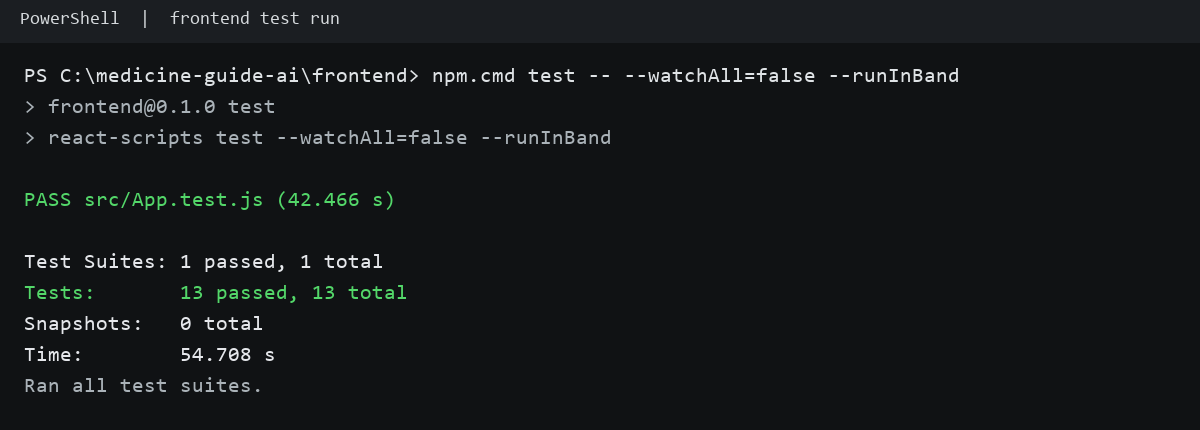
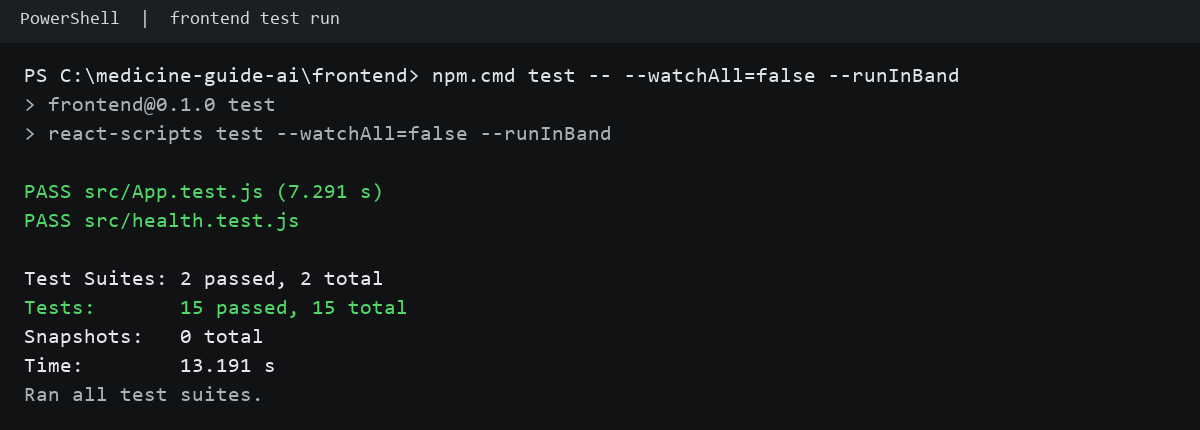
Add deployment health check and tests

diff --git a/frontend/src/health.test.js b/frontend/src/health.test.js
@@ -1,0 +1,40 @@
+import health from '../api/health';
+
+const createResponse = () => ({
+  statusCode: null,
+  headers: {},
+  body: null,
+  setHeader(name, value) {
+    this.headers[name] = value;
+  },
+  status(code) {
+    this.statusCode = code;
+    return this;
+  },
+  json(body) {
+    this.body = body;
+    return this;
+  }
+});
+
+test('GET 헬스체크는 상태와 시각을 반환한다', () => {
+  const res = createResponse();
+
+  health({ method: 'GET' }, res);
+
+  expect(res.statusCode).toBe(200);
+  expect(res.headers['Cache-Control']).toBe('no-store');
+  expect(res.body.status).toBe('ok');
+  expect(res.body.service).toBe('medicine-guide-ai');
+  expect(new Date(res.body.timestamp).toISOString()).toBe(res.body.timestamp);
+});
+
+test('GET 이외의 요청은 405와 허용 메서드를 반환한다', () => {
+  const res = createResponse();
+
+  health({ method: 'POST' }, res);
+
+  expect(res.statusCode).toBe(405);
+  expect(res.headers.Allow).toBe('GET');
+  expect(res.body.status).toBe('error');
+});

diff --git a/frontend/api/health.js b/frontend/api/health.js
@@ -1,0 +1,14 @@
+module.exports = (req, res) => {
+  res.setHeader('Cache-Control', 'no-store');
+
+  if (req.method !== 'GET') {
+    res.setHeader('Allow', 'GET');
+    return res.status(405).json({ status: 'error', error: 'Method Not Allowed' });
+  }
+
+  return res.status(200).json({
+    status: 'ok',
+    service: 'medicine-guide-ai',
+    timestamp: new Date().toISOString()
+  });
+};

diff --git a/README.md b/README.md
@@ -82,6 +82,12 @@ vercel dev
 - Vercel에서 GitHub 저장소를 연결하고 Root Directory를 `frontend`로 설정
 - Environment Variables에 `GEMINI_API_KEY` 등록 후 Deploy
 
+## 배포 헬스체크
+- 엔드포인트: `GET /api/health` (예: `https://medicine-guide-ai.vercel.app/api/health`)
+- 정상 응답: HTTP `200`, JSON의 `status`가 `ok`
+- 이 검사는 Vercel 서버리스 함수의 응답 여부를 확인하며 Gemini API 가용성까지 보장하지 않습니다.
+- 배포 응답 증거: [health-check-response.json](docs/evidence/health-check-response.json)
+
 ## 평가자 사용 방법
 1. https://medicine-guide-ai.vercel.app 접속 (로그인 없음)
 2. 상단 동의 체크박스에 체크
@@ -99,7 +105,7 @@ vercel dev
 ## 자동화 테스트
 - 실행 위치: `frontend/`
 - 실행 명령: `npm test -- --watchAll=false --runInBand` (Windows PowerShell에서는 `npm.cmd test -- --watchAll=false --runInBand`)
-- 최근 실행 결과: 테스트 스위트 1개 통과, 테스트 13개 통과 (2026-10-28)
+- 최근 실행 결과: 테스트 스위트 2개 통과, 테스트 15개 통과 (2026-10-28)
 - 실행 결과 캡처: ![자동화 테스트 결과](docs/evidence/npm-test-result.png)
 
 ## 환경 변수
